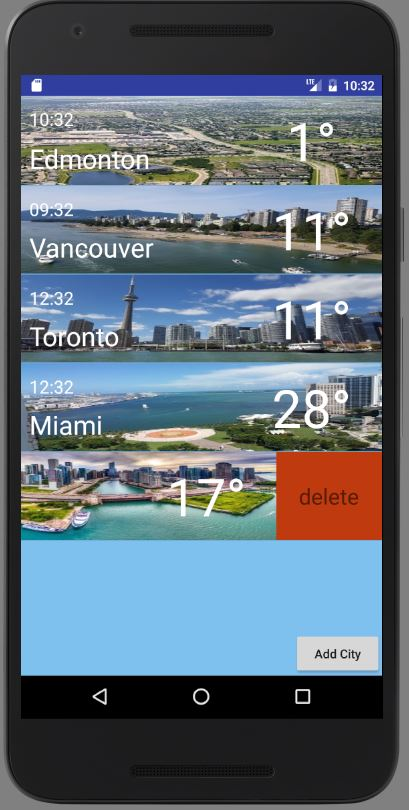
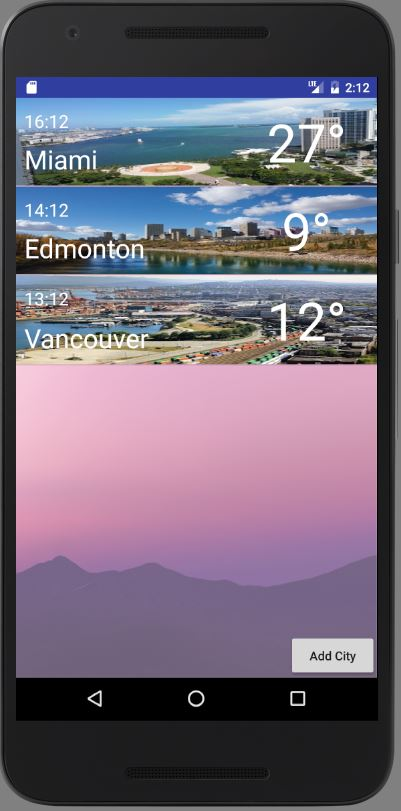
update transparent background

diff --git a/app/src/main/java/ca/dylansheng/weatherapp/activity/MainActivity.java b/app/src/main/java/ca/dylansheng/weatherapp/activity/MainActivity.java
@@ -1,14 +1,18 @@
 package ca.dylansheng.weatherapp.activity;
 
 import android.app.Activity;
+import android.app.WallpaperManager;
 import android.content.Intent;
 import android.database.Cursor;
 import android.database.sqlite.SQLiteDatabase;
+import android.graphics.drawable.Drawable;
 import android.os.Bundle;
 import android.view.View;
 import android.view.Window;
 import android.widget.Button;
 import android.widget.ListView;
+import android.widget.RelativeLayout;
+
 import java.util.*;
 import ca.dylansheng.weatherapp.R;
 import ca.dylansheng.weatherapp.cityInfo.cityInfo;
@@ -26,6 +30,9 @@ public class MainActivity extends Activity implements View.OnClickListener{
     private MyDatabaseHelper dbHelper;
     private SQLiteDatabase db;
 
+    private RelativeLayout mainActivityRelativeLayout;
+
+
     @Override
     protected void onCreate(Bundle savedInstanceState) {
         super.onCreate(savedInstanceState);
@@ -35,6 +42,7 @@ public class MainActivity extends Activity implements View.OnClickListener{
         /* init add city button */
         mainActivityButton = (Button) findViewById(R.id.mainActivityButton);
         mainActivityButton.setOnClickListener(this);
+        mainActivityRelativeLayout = (RelativeLayout) findViewById(R.id.activity_main);
 
         /* init database "weatherDB.db", version 1 */
         dbHelper = new MyDatabaseHelper(MainActivity.this, "weatherDB.db", null, 1);
@@ -47,6 +55,10 @@ public class MainActivity extends Activity implements View.OnClickListener{
         cityAdapter adapter = new cityAdapter(MainActivity.this, R.layout.swipelayout, cityInfoList);
         ListView mainActivityListView = (ListView) findViewById(R.id.mainActivityListView);
         mainActivityListView.setAdapter(adapter);
+        final WallpaperManager wallpaperManager = WallpaperManager.getInstance(this);
+        final Drawable wallpaperDrawable = wallpaperManager.getDrawable();
+        mainActivityRelativeLayout.setBackground(wallpaperDrawable);
+        mainActivityRelativeLayout.getBackground().setAlpha(160);
     }
 
    @Override

diff --git a/app/src/main/java/ca/dylansheng/weatherapp/cityInfo/cityAdapter.java b/app/src/main/java/ca/dylansheng/weatherapp/cityInfo/cityAdapter.java
@@ -1,5 +1,6 @@
 package ca.dylansheng.weatherapp.cityInfo;
 
+import android.app.WallpaperManager;
 import android.content.Context;
 import android.content.Intent;
 import android.database.sqlite.SQLiteDatabase;
@@ -20,6 +21,7 @@ import java.util.List;
 import java.util.TimeZone;
 import java.lang.*;
 import ca.dylansheng.weatherapp.R;
+import ca.dylansheng.weatherapp.activity.MainActivity;
 import ca.dylansheng.weatherapp.activity.getInfoActivity;
 import ca.dylansheng.weatherapp.db.MyDatabaseHelper;
 
